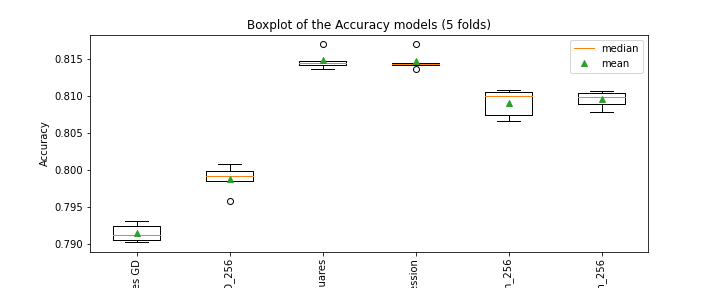
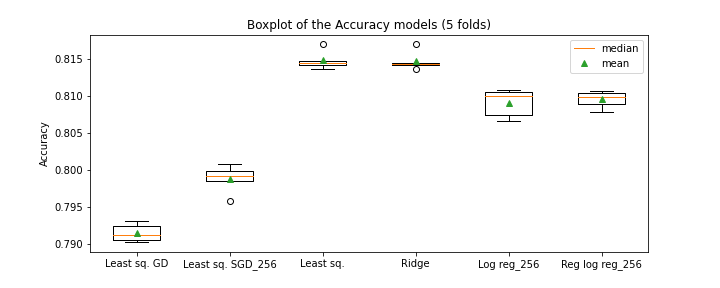
Small boxplot change

diff --git a/.ipynb_checkpoints/Plot-checkpoint.py b/.ipynb_checkpoints/Plot-checkpoint.py
@@ -100,7 +100,7 @@ def plot_boxplots(errors, model_names, err_type = 'Accuracy', save_img = False, 
     plt.legend([bp['medians'][0], bp['means'][0]], ['median', 'mean'])
     plt.title('Boxplot of the ' + err_type + ' models (' + str(np.array(errors).shape[0]) + ' folds)')
     plt.ylabel(err_type)
-    plt.xticks(rotation=90)
+    #plt.xticks(rotation=90)
     if save_img:
         if img_name == '-1':
             print('Argument not found: img_name. Image not saved.')

diff --git a/Plot.py b/Plot.py
@@ -100,7 +100,7 @@ def plot_boxplots(errors, model_names, err_type = 'Accuracy', save_img = False, 
     plt.legend([bp['medians'][0], bp['means'][0]], ['median', 'mean'])
     plt.title('Boxplot of the ' + err_type + ' models (' + str(np.array(errors).shape[0]) + ' folds)')
     plt.ylabel(err_type)
-    plt.xticks(rotation=90)
+    #plt.xticks(rotation=90)
     if save_img:
         if img_name == '-1':
             print('Argument not found: img_name. Image not saved.')
